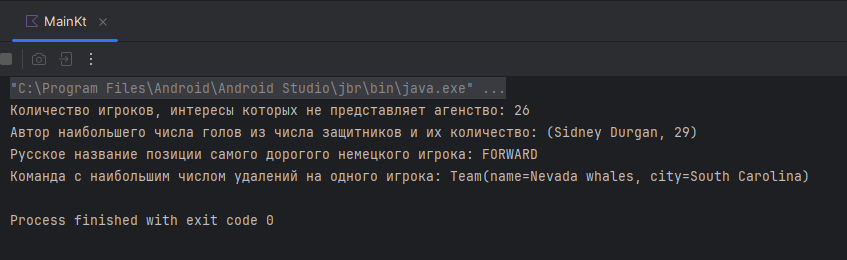
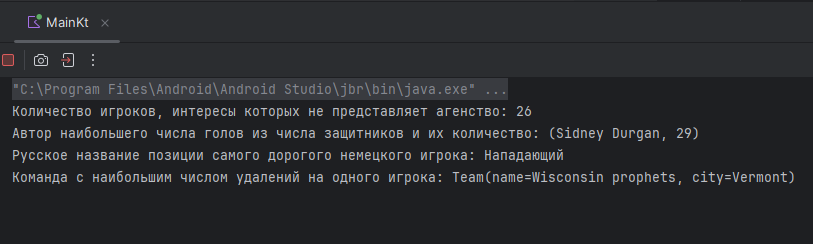
sazhinea - Исправление недочетов по ревью

diff --git a/src/main/kotlin/resolver/Resolver.kt b/src/main/kotlin/resolver/Resolver.kt
@@ -1,6 +1,6 @@
 package resolver
 
-import model.GoalKeeperFromTransferCost
+import model.ForwardFromTransferCost
 import model.Player
 import model.Position
 import model.Team
@@ -18,8 +18,7 @@ class Resolver(val listPlayers: List<Player>) : IResolver {
      */
     override fun getCountWithoutAgency(): Int {
 
-        return listPlayers.filter { player: Player -> player.agency.isEmpty() }
-            .count()
+        return listPlayers.count { player: Player -> player.agency.isEmpty() }
     }
 
     /**
@@ -27,9 +26,10 @@ class Resolver(val listPlayers: List<Player>) : IResolver {
      */
     override fun getBestScorerDefender(): Pair<String, Int> {
 
-        val listDefenders: List<Player> = listPlayers.filter { player: Player -> player.position == Position.DEFENDER }
-        val player: Player = listDefenders.maxByOrNull { player: Player -> player.goalsCount }
-            ?: throw IllegalArgumentException("Not found player")
+        val player: Player =
+            listPlayers.filter { player: Player -> player.position == Position.DEFENDER }
+                .maxByOrNull { player: Player -> player.goalsCount }
+                ?: throw IllegalArgumentException("Not found player")
 
         return Pair(player.name, player.goalsCount)
     }
@@ -38,16 +38,26 @@ class Resolver(val listPlayers: List<Player>) : IResolver {
      * Выведите русское название позиции самого дорогого немецкого игрока
      */
     override fun getTheExpensiveGermanPlayerPosition(): String {
-        return listPlayers.filter { player: Player -> player.nationality == GERMANY }
+
+        val maxCountPlayer: String = listPlayers.filter { player: Player -> player.nationality == GERMANY }
             .maxByOrNull { player: Player -> player.transferCost }?.position?.name
             ?: throw IllegalArgumentException("Not found player")
+
+
+        return translate(maxCountPlayer)
     }
 
     /**
-     * Выберите команду с наибольшим числом удалений на одного игрока
+     * Выберите команду с наибольшим числом удалений на одного игрока.
+     * Надо вывести команду с наибольшим средним числом красных карточек на одного игрока. То есть кол-во карточек на команду / кол-во игроков
      */
     override fun getTheRudestTeam(): Team {
-        return listPlayers.maxByOrNull { player: Player -> player.redCardsCount }?.team
+
+        return listPlayers.groupBy { it.team }
+            .mapValues { (_, players) ->
+                players.map { it.redCardsCount }.average()
+            }
+            .maxByOrNull { it.value }?.key
             ?: throw IllegalArgumentException("Not found player")
     }
 
@@ -55,13 +65,24 @@ class Resolver(val listPlayers: List<Player>) : IResolver {
      * Выберите список футболистов для демонстрации
      * зависимости количества забитых голов от трансферной стоимости для нападающих
      */
-    override fun getGoalKeeperFromTransferCost(): List<GoalKeeperFromTransferCost> {
-        return listPlayers.filter { player: Player -> player.position == Position.FORWARD }
+    override fun getForwardFromTransferCost(): List<ForwardFromTransferCost> {
+        return listPlayers.filter { it.position == Position.FORWARD }
             .map {
-                GoalKeeperFromTransferCost(
+                ForwardFromTransferCost(
                     transferCost = it.transferCost,
                     goalsCount = it.goalsCount
                 )
             }
+    }
+
+    private fun translate(maxCountPlayer: String): String {
+
+        return when (maxCountPlayer) {
+            Position.MIDFIELD.name -> "Полузащитник"
+            Position.DEFENDER.name -> "Защитник"
+            Position.FORWARD.name -> "Нападающий"
+            Position.GOALKEEPER.name -> "Вратарь"
+            else -> "Not Found"
+        }
     }
 }

diff --git a/src/test/kotlin/ResolverTest.kt b/src/test/kotlin/ResolverTest.kt
@@ -1,5 +1,5 @@
 import junit.framework.TestCase.assertEquals
-import model.GoalKeeperFromTransferCost
+import model.ForwardFromTransferCost
 import model.Player
 import model.Position
 import model.Team
@@ -51,38 +51,38 @@ class ResolverTest {
 
     @Test
     fun testGetCountWithoutAgency() {
-        Mockito.`when`(resolver.getCountWithoutAgency(listPlayers)).thenReturn(1)
-        assertEquals(1, resolver.getCountWithoutAgency(listPlayers))
+        Mockito.`when`(resolver.getCountWithoutAgency()).thenReturn(1)
+        assertEquals(1, resolver.getCountWithoutAgency())
     }
 
     @Test
     fun testGetBestScorerDefender() {
-        Mockito.`when`(resolver.getBestScorerDefender(listPlayers)).thenReturn(Pair("Name2", 1))
-        assertEquals(Pair("Name2", 1), resolver.getBestScorerDefender(listPlayers))
+        Mockito.`when`(resolver.getBestScorerDefender()).thenReturn(Pair("Name2", 1))
+        assertEquals(Pair("Name2", 1), resolver.getBestScorerDefender())
     }
 
     @Test
     fun testGetTheExpensiveGermanPlayerPosition() {
-        Mockito.`when`(resolver.getTheExpensiveGermanPlayerPosition(listPlayers))
+        Mockito.`when`(resolver.getTheExpensiveGermanPlayerPosition())
             .thenReturn("GOALKEEPER")
-        assertEquals("GOALKEEPER", resolver.getTheExpensiveGermanPlayerPosition(listPlayers))
+        assertEquals("GOALKEEPER", resolver.getTheExpensiveGermanPlayerPosition())
     }
 
     @Test
     fun testGetTheRudestTeam() {
         val rudeTeam = Team("Team1", "")
-        Mockito.`when`(resolver.getTheRudestTeam(listPlayers)).thenReturn(rudeTeam)
-        assertEquals(rudeTeam, resolver.getTheRudestTeam(listPlayers))
+        Mockito.`when`(resolver.getTheRudestTeam()).thenReturn(rudeTeam)
+        assertEquals(rudeTeam, resolver.getTheRudestTeam())
     }
 
     @Test
     fun testGetGoalKeeperFromTransferCost() {
         val goalKeeperList = listOf(
-            GoalKeeperFromTransferCost(100000, 10),
-            GoalKeeperFromTransferCost(10000, 10)
+            ForwardFromTransferCost(100000, 10),
+            ForwardFromTransferCost(10000, 10)
         )
-        Mockito.`when`(resolver.getGoalKeeperFromTransferCost(listPlayers))
+        Mockito.`when`(resolver.getForwardFromTransferCost())
             .thenReturn(goalKeeperList)
-        assertEquals(goalKeeperList, resolver.getGoalKeeperFromTransferCost(listPlayers))
+        assertEquals(goalKeeperList, resolver.getForwardFromTransferCost())
     }
 }

diff --git a/src/main/kotlin/jfree/JFree.kt b/src/main/kotlin/jfree/JFree.kt
@@ -1,6 +1,6 @@
 package jfree
 
-import model.GoalKeeperFromTransferCost
+import model.ForwardFromTransferCost
 import org.jfree.chart.ChartFactory
 import org.jfree.chart.ChartPanel
 import org.jfree.chart.JFreeChart
@@ -16,7 +16,7 @@ import javax.swing.SwingUtilities
 
 object JFree {
 
-    fun draw(listData: List<GoalKeeperFromTransferCost>) {
+    fun draw(listData: List<ForwardFromTransferCost>) {
         SwingUtilities.invokeLater {
             val frame = JFrame("Сажин_Е_А")
             frame.defaultCloseOperation = JFrame.EXIT_ON_CLOSE
@@ -27,13 +27,13 @@ object JFree {
         }
     }
 
-    private fun createChartPanel(listData: List<GoalKeeperFromTransferCost>): ChartPanel {
+    private fun createChartPanel(listData: List<ForwardFromTransferCost>): ChartPanel {
         val dataset = createDataset(listData)
         val chart = createChart(dataset)
         return ChartPanel(chart)
     }
 
-    private fun createDataset(listData: List<GoalKeeperFromTransferCost>): XYDataset {
+    private fun createDataset(listData: List<ForwardFromTransferCost>): XYDataset {
 
         val series = XYSeries("Goals vs Transfer Value")
 

diff --git a/src/main/kotlin/Main.kt b/src/main/kotlin/Main.kt
@@ -1,5 +1,5 @@
 import jfree.JFree
-import model.GoalKeeperFromTransferCost
+import model.ForwardFromTransferCost
 import model.Player
 import model.Team
 import parser.CsvParser
@@ -23,6 +23,6 @@ fun main(args: Array<String>) {
     println("Русское название позиции самого дорогого немецкого игрока: $nameGermanyPlayer")
     println("Команда с наибольшим числом удалений на одного игрока: $countDeleteForOnePlayer")
 
-    val listData: List<GoalKeeperFromTransferCost> = resolver.getGoalKeeperFromTransferCost()
+    val listData: List<ForwardFromTransferCost> = resolver.getForwardFromTransferCost()
     JFree.draw(listData)
 }

diff --git a/src/main/kotlin/resolver/IResolver.kt b/src/main/kotlin/resolver/IResolver.kt
@@ -1,6 +1,6 @@
 package resolver
 
-import model.GoalKeeperFromTransferCost
+import model.ForwardFromTransferCost
 import model.Team
 
 interface IResolver {
@@ -19,5 +19,5 @@ interface IResolver {
 
     /* Выберите список футболистов для демонстрации */
     /* зависимости количества забитых голов от трансферной стоимости для нападающих */
-    fun getGoalKeeperFromTransferCost(): List<GoalKeeperFromTransferCost>
+    fun getForwardFromTransferCost(): List<ForwardFromTransferCost>
 }

diff --git a/src/main/kotlin/model/ForwardFromTransferCost.kt b/src/main/kotlin/model/ForwardFromTransferCost.kt
@@ -3,7 +3,7 @@ package model
 /**
  * Нужен для демонстрации графика
  */
-data class GoalKeeperFromTransferCost(
+data class ForwardFromTransferCost(
     val transferCost: Int,
     val goalsCount: Int,
 )
